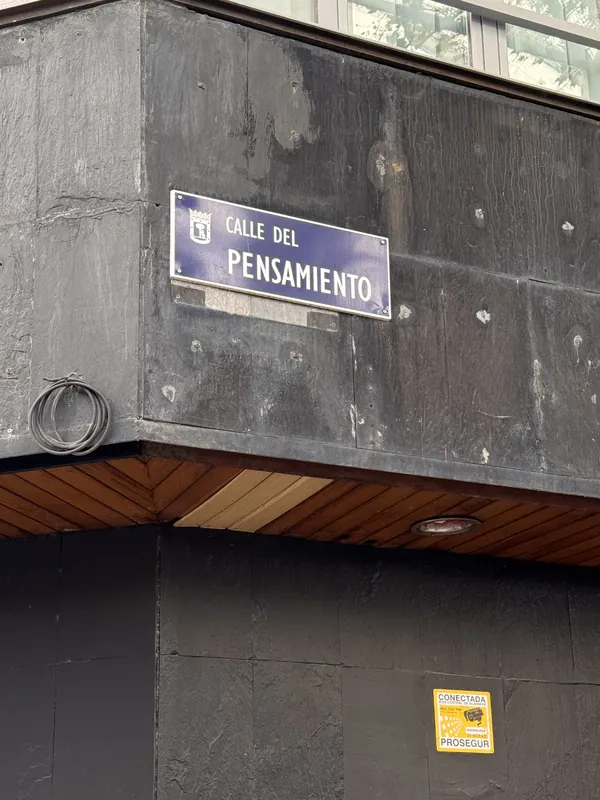
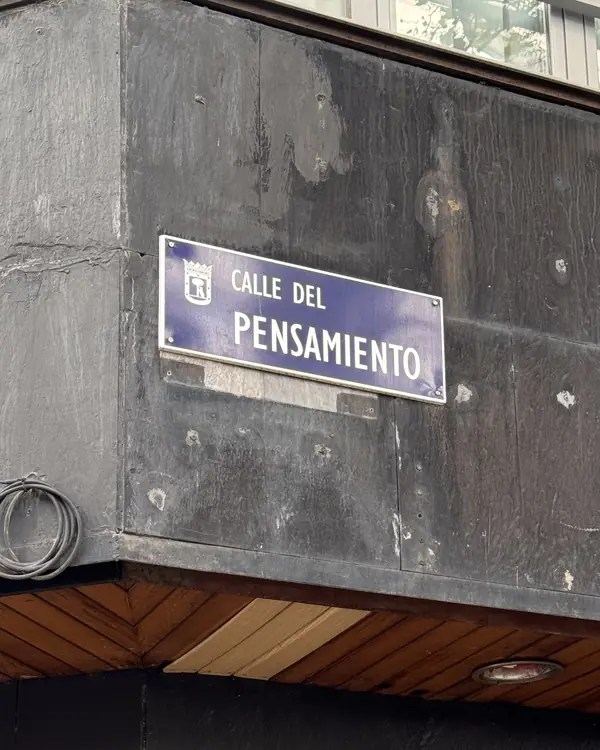
Callejero Emocional v6: correcciones de Pam (trazo único 01→07, foto Pensamiento, tamaños móvil)
- Mapa regenerado con las coordenadas y el trazado de build_mapa.py (boceto v5 de Pam):
  un solo trazo abierto 01→02→03→Esperanza→04→05→06→07 que acaba en la 07 y se dibuja al
  hacer scroll (cada parada aparece cuando llega la línea); sin JS o con reduced-motion, ya dibujado
- Mapa propio de móvil del boceto; calles 26 u y números 20 u del SVG → ≥16,1 px y ≥12,4 px
  reales a 360 px (17,7 / 13,6 px a 390). Leyenda «08 · pronto» sin punto, pies de polaroid y
  botón «Mira dónde dejé una» a 16 px en móvil
- Etiqueta «Constancia» junto a su punto 01
- Foto Pensamiento: nuevo recorte 4:5 de IMG_8288.HEIC por encima de la pegatina de Prosegur
  (no se ve ni la pegatina ni el teléfono); polaroids en 4:5 como el boceto
- Tipografía OCR B Libre sin cambios

diff --git a/index.html b/index.html
@@ -131,37 +131,39 @@ button{cursor:pointer;border:none;background:none;padding:0}
 .callejero-mapas{grid-area:mapa;position:relative;margin:0 -6px -8px 0}
 .mapa{display:block;width:100%;height:auto;overflow:visible}
 .mapa--movil{display:none}
-.mapa text{font-family:'OCR B Libre','Courier New',monospace;fill:var(--kirco-paper)}
-.mapa .mapa-calle{font-size:12.5px;letter-spacing:.06em}
-.mapa .mapa-fondo-txt{font-size:7.5px;letter-spacing:.28em;fill:rgba(247,241,227,.38)}
-.mapa .mapa-pronto{font-size:13px;letter-spacing:.06em}
-.mapa .mapa-num{font-size:8.5px;text-anchor:middle;dominant-baseline:central;letter-spacing:0}
-.mapa .mapa-num--verde{fill:#1C2659}
-.mapa-trazo{fill:none;stroke:var(--kirco-paper);stroke-width:1.15;stroke-linecap:round;stroke-linejoin:round;opacity:.9}
-.mapa-fondo{fill:none;stroke:rgba(247,241,227,.2);stroke-width:.8;stroke-dasharray:2 3}
-.mapa-retiro{fill:rgba(247,241,227,.05);stroke:rgba(247,241,227,.16);stroke-width:.8}
-.mapa-nodo{fill:#1C2659;stroke:var(--kirco-paper);stroke-width:1.1}
-.mapa-nodo--verde{fill:var(--kirco-green);stroke:var(--kirco-green)}
-.mapa-punto{fill:var(--kirco-paper)}
-/* Trazado al hacer scroll: solo si el JS lo prepara (sin JS o con reduced-motion se ve ya dibujado) */
-.callejero-mapas.is-preparado .mapa-trazo{stroke-dasharray:1;stroke-dashoffset:1;transition:stroke-dashoffset 2.6s cubic-bezier(.45,0,.2,1)}
-.callejero-mapas.is-preparado .mapa-trazo--2{transition-delay:.9s;transition-duration:1.4s}
-.callejero-mapas.is-preparado .mapa-trazo--3{transition-delay:1.3s;transition-duration:1.1s}
-.callejero-mapas.is-preparado .mapa-aparece{opacity:0;transition:opacity .6s ease-out}
-.callejero-mapas.is-preparado .mapa-fondo,.callejero-mapas.is-preparado .mapa-retiro,.callejero-mapas.is-preparado .mapa-fondo-txt{opacity:0;transition:opacity 1s ease-out}
+.mapa-leyenda{position:absolute;right:4px;top:-2px;margin:0;z-index:1;font-family:'OCR B Libre','Courier New',monospace;font-size:15px;line-height:1.2;color:rgba(247,241,227,.8)}
+.mapa text{font-family:'OCR B Libre','Courier New',monospace}
+.mapa-fondo path{fill:none;stroke:rgba(247,241,227,.16);stroke-width:1;stroke-linecap:round}
+.mapa-fondo .mapa-rio{stroke:rgba(161,214,107,.38);stroke-width:1.4}
+.mapa-fondo .mapa-retiro{fill:rgba(161,214,107,.07);stroke:rgba(161,214,107,.32)}
+.mapa-fondo-txt text{font-size:11px;letter-spacing:.22em;fill:rgba(247,241,227,.34)}
+.mapa-trazo{fill:none;stroke:var(--kirco-paper);stroke-width:1.6;stroke-linecap:round;stroke-linejoin:round;opacity:.9}
+.mapa-parada circle{fill:#1C2659;stroke:var(--kirco-paper);stroke-width:1.4}
+.mapa-parada--foto circle{fill:var(--kirco-green);stroke:var(--kirco-green)}
+.mapa-parada--mini circle{fill:var(--kirco-paper);stroke:none}
+.mapa .mapa-num{font-size:13px;fill:var(--kirco-paper);text-anchor:middle;dominant-baseline:central}
+.mapa .mapa-parada--foto .mapa-num{fill:#1C2659}
+.mapa .mapa-calle{font-size:15px;letter-spacing:.04em;fill:var(--kirco-paper);paint-order:stroke;stroke:rgba(28,38,89,.85);stroke-width:4px;stroke-linejoin:round}
+.mapa .mapa-calle--peq{fill:rgba(247,241,227,.72)}
+/* Trazado al hacer scroll: un solo trazo abierto 01→07 (linear, para que cada parada salga cuando llega la línea).
+   Solo si el JS lo prepara: sin JS o con reduced-motion se ve ya dibujado. */
+.callejero-mapas.is-preparado .mapa-trazo{stroke-dasharray:1;stroke-dashoffset:1;transition:stroke-dashoffset 3.6s linear}
+.callejero-mapas.is-preparado .mapa-aparece,.callejero-mapas.is-preparado .mapa-aparece-fin{opacity:0;transition:opacity .5s ease-out}
+.callejero-mapas.is-preparado .mapa-fondo,.callejero-mapas.is-preparado .mapa-fondo-txt{opacity:0;transition:opacity 1s ease-out}
 .callejero-mapas.is-dibujado .mapa-trazo{stroke-dashoffset:0}
-.callejero-mapas.is-dibujado .mapa-aparece,.callejero-mapas.is-dibujado .mapa-fondo,.callejero-mapas.is-dibujado .mapa-retiro,.callejero-mapas.is-dibujado .mapa-fondo-txt{opacity:1}
+.callejero-mapas.is-dibujado .mapa-aparece,.callejero-mapas.is-dibujado .mapa-aparece-fin,.callejero-mapas.is-dibujado .mapa-fondo,.callejero-mapas.is-dibujado .mapa-fondo-txt{opacity:1}
 .callejero-mapas.is-dibujado .mapa-aparece{transition-delay:calc(var(--d,0) * 1ms)}
+.callejero-mapas.is-dibujado .mapa-aparece-fin{transition-delay:3.7s}
 @media (prefers-reduced-motion:reduce){
   .callejero-mapas .mapa-trazo{stroke-dasharray:none !important;stroke-dashoffset:0 !important;transition:none !important}
-  .callejero-mapas .mapa-aparece,.callejero-mapas .mapa-fondo,.callejero-mapas .mapa-retiro,.callejero-mapas .mapa-fondo-txt{opacity:1 !important;transition:none !important}
+  .callejero-mapas .mapa-aparece,.callejero-mapas .mapa-aparece-fin,.callejero-mapas .mapa-fondo,.callejero-mapas .mapa-fondo-txt{opacity:1 !important;transition:none !important}
 }
 .callejero-polas{position:relative;display:flex;justify-content:center;gap:clamp(10px,1.6vw,22px);margin:-2% 0 0;padding:0 2%;z-index:2}
 .callejero-pola{position:relative;margin:0;flex:0 1 31%;max-width:150px;background:#fff;border-radius:4px;padding:6px 6px 0;box-shadow:0 8px 20px rgba(8,12,36,.45)}
 .callejero-pola:nth-child(1){transform:rotate(-3deg)}
 .callejero-pola:nth-child(2){transform:rotate(2deg) translateY(-6px)}
 .callejero-pola:nth-child(3){transform:rotate(-1.5deg) translateY(4px)}
-.callejero-pola img{display:block;width:100%;height:auto;aspect-ratio:3/4;object-fit:cover;border-radius:1px}
+.callejero-pola img{display:block;width:100%;height:auto;aspect-ratio:4/5;object-fit:cover;border-radius:1px}
 .callejero-pola figcaption{font-family:var(--font-hand);font-size:clamp(14px,1.2vw,17px);color:var(--kirco-ink);text-align:center;line-height:1;padding:9px 2px 11px}
 .callejero-pola-num{position:absolute;top:-9px;left:-9px;width:24px;height:24px;border-radius:50%;background:var(--kirco-green);color:#1C2659;font-family:'OCR B Libre','Courier New',monospace;font-size:10.5px;line-height:24px;text-align:center;box-shadow:0 2px 6px rgba(8,12,36,.35)}
 /* Sello flotante: fuera mientras se ve Callejero (las polaroids quedan debajo de él en móvil) */
@@ -179,15 +181,22 @@ button{cursor:pointer;border:none;background:none;padding:0}
     background-image:image-set(url('assets/callejero-textura-movil.avif') type('image/avif'),url('assets/callejero-textura-movil.webp') type('image/webp'))}
   .callejero-titulo{font-size:clamp(30px,8.4vw,36px);margin-bottom:16px}
   .callejero-parrafo{font-size:19px}
+  #callejero{padding-left:14px !important;padding-right:14px !important}
+  .callejero-card{padding:30px 18px 28px}
   .callejero-mapas{margin:22px 0 0}
+  .mapa-leyenda{position:static;text-align:right;font-size:16px;margin:0 0 4px}
   .mapa--escritorio{display:none}
-  .mapa--movil{display:block}
-  .callejero-polas{margin-top:2%;gap:8px;padding:0}
+  .mapa--movil{display:block;width:calc(100% + 12px);margin:0 -6px}
+  /* Unidades del SVG móvil (ancho 496): a 360 px el mapa mide 308 px (×0,62) → calles 26 u ≈ 16,1 px, números 20 u ≈ 12,4 px */
+  .mapa--movil .mapa-calle{font-size:26px;letter-spacing:0;stroke-width:5px}
+  .mapa--movil .mapa-num{font-size:20px}
+  .mapa--movil .mapa-fondo-txt text{font-size:15px}
+  .callejero-polas{margin-top:2%;gap:10px;padding:0 2px}
   .callejero-pola{flex:1 1 0;padding:4px 4px 0}
-  .callejero-pola figcaption{font-size:13px;padding:7px 0 9px}
-  .callejero-pola-num{width:22px;height:22px;line-height:22px;font-size:9.5px;top:-8px;left:-7px}
+  .callejero-pola figcaption{font-size:16px;padding:6px 0 8px}
+  .callejero-pola-num{width:26px;height:26px;line-height:26px;font-size:12px;top:-9px;left:-7px}
   .callejero-cta{margin-top:26px}
-  .callejero-btn{display:flex;justify-content:center;width:100%;font-size:14px;padding:1.05em 1em;letter-spacing:.14em}
+  .callejero-btn{display:flex;justify-content:center;width:100%;font-size:16px;padding:1em .8em;letter-spacing:.08em}
   .callejero-btn svg{display:none}
 }
 }
@@ -429,58 +438,39 @@ button{cursor:pointer;border:none;background:none;padding:0}
       <p class="callejero-parrafo">Es una serie original de by_kirco. Elegí ocho calles de Madrid con nombre de emoción, como Constancia, Refugio o Esperanza, y en cada una dejé una carta escrita a mano. Si encuentras una, es para ti.</p>
     </div>
     <div class="callejero-mapas" data-mapa>
-    <svg class="mapa mapa--escritorio" viewBox="0 0 400 300" role="img" aria-labelledby="mapa-esc-tit">
-      <title id="mapa-esc-tit">Mapa dibujado del Callejero Emocional: Constancia (01), Pensamiento (02), Desengaño (03), Refugio (04), Dos Amigos (05), Virtudes (06), Indulgencia (07), Esperanza y la 08, que llegará pronto.</title>
-      <path class="mapa-fondo" d="M14 8 C 6 70 18 120 10 180 C 4 230 22 262 40 296"/>
-      <text class="mapa-fondo-txt" transform="translate(9 262) rotate(-74)">MANZANARES</text>
-      <path class="mapa-fondo" d="M236 6 L 232 128"/>
-      <text class="mapa-fondo-txt" transform="translate(242 12) rotate(90)">CASTELLANA</text>
-      <path class="mapa-fondo" d="M42 206 L 214 204"/>
-      <text class="mapa-fondo-txt" x="82" y="200">GRAN VÍA</text>
-      <path class="mapa-retiro" d="M246 268 C 248 250 282 244 300 252 C 318 260 316 282 296 288 C 272 294 244 288 246 268 Z"/>
-      <text class="mapa-fondo-txt" x="301" y="262">RETIRO</text>
-      <path class="mapa-trazo mapa-trazo--1" pathLength="1" d="M160 274 C 136 270 120 248 121 222 C 122 200 86 194 55 175 C 30 120 104 62 167 73 C 196 26 280 20 287 97 C 296 150 334 186 322 222 C 306 262 226 280 160 274 Z"/>
-      <path class="mapa-trazo mapa-trazo--2" pathLength="1" d="M55 175 C 104 158 150 156 190 160 C 222 163 240 162 255 166 C 286 176 306 200 322 222"/>
-      <path class="mapa-trazo mapa-trazo--3" pathLength="1" d="M167 73 C 206 96 238 132 255 166"/>
-      <circle class="mapa-punto mapa-aparece" style="--d:2300" cx="160" cy="274" r="3.2"/>
-      <text class="mapa-pronto mapa-aparece" style="--d:2400" x="390" y="18" text-anchor="end">08 · pronto</text>
-      <g class="mapa-aparece" style="--d:1500"><circle class="mapa-nodo" cx="255" cy="166" r="8.5"/><text class="mapa-num" x="255" y="166.5">01</text></g><text class="mapa-calle mapa-aparece" style="--d:1550" x="208" y="197" text-anchor="start">Constancia</text>
-      <g class="mapa-aparece" style="--d:600"><circle class="mapa-nodo mapa-nodo--verde" cx="167" cy="73" r="8.5"/><text class="mapa-num mapa-num--verde" x="167" y="73.5">02</text></g><text class="mapa-calle mapa-aparece" style="--d:650" x="154" y="77" text-anchor="end">Pensamiento</text>
-      <g class="mapa-aparece" style="--d:1900"><circle class="mapa-nodo" cx="121" cy="222" r="8.5"/><text class="mapa-num" x="121" y="222.5">03</text></g><text class="mapa-calle mapa-aparece" style="--d:1950" x="108" y="226" text-anchor="end">Desengaño</text>
-      <g class="mapa-aparece" style="--d:1000"><circle class="mapa-nodo mapa-nodo--verde" cx="287" cy="97" r="8.5"/><text class="mapa-num mapa-num--verde" x="287" y="97.5">04</text></g><text class="mapa-calle mapa-aparece" style="--d:1050" x="256" y="80" text-anchor="start">Refugio</text>
-      <g class="mapa-aparece" style="--d:300"><circle class="mapa-nodo mapa-nodo--verde" cx="55" cy="175" r="8.5"/><text class="mapa-num mapa-num--verde" x="55" y="175.5">05</text></g><text class="mapa-calle mapa-aparece" style="--d:350" x="36" y="157" text-anchor="start">Dos Amigos</text>
-      <g class="mapa-aparece" style="--d:1300"><circle class="mapa-nodo" cx="190" cy="160" r="8.5"/><text class="mapa-num" x="190" y="160.5">06</text></g><text class="mapa-calle mapa-aparece" style="--d:1350" x="152" y="143" text-anchor="start">Virtudes</text>
-      <g class="mapa-aparece" style="--d:1700"><circle class="mapa-nodo" cx="322" cy="222" r="8.5"/><text class="mapa-num" x="322" y="222.5">07</text></g><text class="mapa-calle mapa-aparece" style="--d:1750" x="232" y="248" text-anchor="start">Indulgencia</text>
-      <text class="mapa-calle mapa-aparece" style="--d:2300" x="170" y="278" text-anchor="start">Esperanza</text>
+    <p class="mapa-leyenda mapa-aparece-fin">08 · pronto</p>
+    <svg class="mapa mapa--escritorio" viewBox="-8 -4 496 478" role="img" aria-labelledby="mapa-esc-tit">
+      <title id="mapa-esc-tit">Mapa dibujado del Callejero Emocional: un recorrido que une las cartas en orden, Constancia (01), Pensamiento (02), Desengaño (03), Esperanza, Refugio (04), Dos Amigos (05), Virtudes (06) e Indulgencia (07). La 08 llegará pronto.</title>
+      <g class="mapa-fondo" transform="scale(1.000 1.000)"><path class="mapa-rio" d="M6 60 C 0 180, 6 300, 40 380 S 150 452, 250 470"/><path class="mapa-via" d="M292 470 C 292 330, 288 180, 294 0"/><path class="mapa-via" d="M70 280 C 140 276, 220 270, 292 276"/><path class="mapa-retiro" d="M330 396 C 352 380, 396 384, 404 410 S 384 452, 350 448 S 316 412, 330 396Z"/></g>
+      <g class="mapa-fondo-txt"><text x="436" y="396" text-anchor="middle">RETIRO</text><text x="300" y="20" transform="rotate(90 300 20)">CASTELLANA</text><text x="16" y="330" transform="rotate(-72 16 330)" text-anchor="middle">MANZANARES</text><text x="88" y="270">GRAN VÍA</text></g>
+      <path class="mapa-trazo" pathLength="1" d="M338.0 222.0 C296.7 178.7 244.9 84.7 214.0 92.0 C180.0 100.0 141.3 250.2 150.0 300.0 C155.6 332.1 179.2 364.7 204.0 372.0 C232.8 380.5 289.4 360.1 318.0 330.0 C356.1 289.9 394.3 175.0 382.0 124.0 C373.0 86.4 335.2 56.8 300.0 40.0 C260.1 21.0 192.4 12.5 150.0 26.0 C110.8 38.5 67.1 75.0 52.0 110.0 C37.3 144.0 34.4 211.6 58.0 232.0 C87.3 257.4 185.1 203.5 246.0 214.0 C309.2 224.9 368.7 271.3 430.0 300.0"/>
+      <g class="mapa-parada mapa-parada--mini mapa-aparece" style="--d:1015"><circle cx="204" cy="372" r="4.6"/><text class="mapa-calle mapa-calle--peq" x="218" y="382">Esperanza</text></g>
+      <g class="mapa-parada mapa-aparece" data-n="01" style="--d:0"><circle cx="338" cy="222" r="14"/><text class="mapa-num" x="338" y="222">01</text><text class="mapa-calle" x="316" y="258" text-anchor="end">Constancia</text></g>
+      <g class="mapa-parada mapa-parada--foto mapa-aparece" data-n="02" style="--d:371"><circle cx="214" cy="92" r="14"/><text class="mapa-num" x="214" y="92">02</text><text class="mapa-calle" x="192" y="97" text-anchor="end">Pensamiento</text></g>
+      <g class="mapa-parada mapa-aparece" data-n="03" style="--d:825"><circle cx="150" cy="300" r="14"/><text class="mapa-num" x="150" y="300">03</text><text class="mapa-calle" x="128" y="305" text-anchor="end">Desengaño</text></g>
+      <g class="mapa-parada mapa-parada--foto mapa-aparece" data-n="04" style="--d:1717"><circle cx="382" cy="124" r="14"/><text class="mapa-num" x="382" y="124">04</text><text class="mapa-calle" x="382" y="100" text-anchor="middle">Refugio</text></g>
+      <g class="mapa-parada mapa-parada--foto mapa-aparece" data-n="05" style="--d:2798"><circle cx="58" cy="232" r="14"/><text class="mapa-num" x="58" y="232">05</text><text class="mapa-calle" x="48" y="208" text-anchor="start">Dos Amigos</text></g>
+      <g class="mapa-parada mapa-aparece" data-n="06" style="--d:3187"><circle cx="246" cy="214" r="14"/><text class="mapa-num" x="246" y="214">06</text><text class="mapa-calle" x="246" y="190" text-anchor="middle">Virtudes</text></g>
+      <g class="mapa-parada mapa-aparece" data-n="07" style="--d:3600"><circle cx="430" cy="300" r="14"/><text class="mapa-num" x="430" y="300">07</text><text class="mapa-calle" x="448" y="338" text-anchor="end">Indulgencia</text></g>
     </svg>
-    <svg class="mapa mapa--movil" viewBox="0 0 300 350" role="img" aria-labelledby="mapa-mov-tit">
-      <title id="mapa-mov-tit">Mapa dibujado del Callejero Emocional: Constancia (01), Pensamiento (02), Desengaño (03), Refugio (04), Dos Amigos (05), Virtudes (06), Indulgencia (07), Esperanza y la 08, que llegará pronto.</title>
-      <path class="mapa-fondo" d="M16 60 C 8 140 20 200 12 262 C 8 300 20 326 30 346"/>
-      <text class="mapa-fondo-txt" transform="translate(10 330) rotate(-80)">MANZANARES</text>
-      <path class="mapa-fondo" d="M180 44 L 176 150"/>
-      <text class="mapa-fondo-txt" transform="translate(186 50) rotate(90)">CASTELLANA</text>
-      <path class="mapa-fondo" d="M30 232 L 160 230"/>
-      <text class="mapa-fondo-txt" x="62" y="226">GRAN VÍA</text>
-      <path class="mapa-retiro" d="M178 330 C 180 314 210 308 228 314 C 246 320 244 340 226 345 C 204 350 176 346 178 330 Z"/>
-      <text class="mapa-fondo-txt" x="190" y="341">RETIRO</text>
-      <path class="mapa-trazo mapa-trazo--1" pathLength="1" d="M146 311 C 128 306 124 282 128 261 C 130 236 70 226 41 205 C 18 150 80 70 158 73 C 196 40 248 64 239 112 C 232 160 280 210 261 247 C 246 284 200 314 146 311 Z"/>
-      <path class="mapa-trazo mapa-trazo--2" pathLength="1" d="M41 205 C 82 184 120 168 157 165 C 182 164 198 176 211 188 C 232 206 250 228 261 247"/>
-      <path class="mapa-trazo mapa-trazo--3" pathLength="1" d="M158 73 C 182 108 200 150 211 188"/>
-      <circle class="mapa-punto mapa-aparece" style="--d:2300" cx="146" cy="311" r="3.2"/>
-      <text class="mapa-pronto mapa-aparece" style="--d:2400" x="290" y="14" text-anchor="end">08 · pronto</text>
-      <g class="mapa-aparece" style="--d:1500"><circle class="mapa-nodo" cx="211" cy="188" r="8.5"/><text class="mapa-num" x="211" y="188.5">01</text></g><text class="mapa-calle mapa-aparece" style="--d:1550" x="160" y="217" text-anchor="start">Constancia</text>
-      <g class="mapa-aparece" style="--d:600"><circle class="mapa-nodo mapa-nodo--verde" cx="158" cy="73" r="8.5"/><text class="mapa-num mapa-num--verde" x="158" y="73.5">02</text></g><text class="mapa-calle mapa-aparece" style="--d:650" x="145" y="77" text-anchor="end">Pensamiento</text>
-      <g class="mapa-aparece" style="--d:1900"><circle class="mapa-nodo" cx="128" cy="261" r="8.5"/><text class="mapa-num" x="128" y="261.5">03</text></g><text class="mapa-calle mapa-aparece" style="--d:1950" x="115" y="265" text-anchor="end">Desengaño</text>
-      <g class="mapa-aparece" style="--d:1000"><circle class="mapa-nodo mapa-nodo--verde" cx="239" cy="112" r="8.5"/><text class="mapa-num mapa-num--verde" x="239" y="112.5">04</text></g><text class="mapa-calle mapa-aparece" style="--d:1050" x="198" y="94" text-anchor="start">Refugio</text>
-      <g class="mapa-aparece" style="--d:300"><circle class="mapa-nodo mapa-nodo--verde" cx="41" cy="205" r="8.5"/><text class="mapa-num mapa-num--verde" x="41" y="205.5">05</text></g><text class="mapa-calle mapa-aparece" style="--d:350" x="28" y="187" text-anchor="start">Dos Amigos</text>
-      <g class="mapa-aparece" style="--d:1300"><circle class="mapa-nodo" cx="157" cy="165" r="8.5"/><text class="mapa-num" x="157" y="165.5">06</text></g><text class="mapa-calle mapa-aparece" style="--d:1350" x="112" y="146" text-anchor="start">Virtudes</text>
-      <g class="mapa-aparece" style="--d:1700"><circle class="mapa-nodo" cx="261" cy="247" r="8.5"/><text class="mapa-num" x="261" y="247.5">07</text></g><text class="mapa-calle mapa-aparece" style="--d:1750" x="152" y="275" text-anchor="start">Indulgencia</text>
-      <text class="mapa-calle mapa-aparece" style="--d:2300" x="156" y="315" text-anchor="start">Esperanza</text>
+    <svg class="mapa mapa--movil" viewBox="-8 -4 496 648" role="img" aria-labelledby="mapa-mov-tit">
+      <title id="mapa-mov-tit">Mapa dibujado del Callejero Emocional: un recorrido que une las cartas en orden, Constancia (01), Pensamiento (02), Desengaño (03), Esperanza, Refugio (04), Dos Amigos (05), Virtudes (06) e Indulgencia (07). La 08 llegará pronto.</title>
+      <g class="mapa-fondo" transform="scale(1.000 1.362)"><path class="mapa-rio" d="M6 60 C 0 180, 6 300, 40 380 S 150 452, 250 470"/><path class="mapa-via" d="M292 470 C 292 330, 288 180, 294 0"/><path class="mapa-via" d="M70 280 C 140 276, 220 270, 292 276"/><path class="mapa-retiro" d="M330 396 C 352 380, 396 384, 404 410 S 384 452, 350 448 S 316 412, 330 396Z"/></g>
+      <g class="mapa-fondo-txt"><text x="367" y="577" text-anchor="middle">RETIRO</text><text x="300" y="27" transform="rotate(90 300 27)">CASTELLANA</text><text x="16" y="449" transform="rotate(-72 16 449)" text-anchor="middle">MANZANARES</text><text x="88" y="368">GRAN VÍA</text></g>
+      <path class="mapa-trazo" pathLength="1" d="M360.0 300.0 C327.3 230.0 286.4 86.5 262.0 90.0 C232.3 94.3 203.5 353.5 210.0 430.0 C213.4 470.2 217.4 500.1 240.0 520.0 C267.7 544.5 348.7 571.7 380.0 548.0 C431.8 508.8 433.4 249.8 410.0 160.0 C395.7 105.3 368.3 63.0 330.0 40.0 C289.6 15.7 217.3 7.5 170.0 24.0 C119.8 41.5 60.0 98.9 40.0 150.0 C20.1 201.0 18.3 308.8 50.0 330.0 C85.4 353.7 196.3 244.9 262.0 256.0 C329.9 267.5 387.3 355.3 450.0 405.0"/>
+      <g class="mapa-parada mapa-parada--mini mapa-aparece" style="--d:1027"><circle cx="240" cy="520" r="5.9"/><text class="mapa-calle mapa-calle--peq" x="258" y="534">Esperanza</text></g>
+      <g class="mapa-parada mapa-aparece" data-n="01" style="--d:0"><circle cx="360" cy="300" r="18"/><text class="mapa-num" x="360" y="300">01</text><text class="mapa-calle" x="360" y="346" text-anchor="middle">Constancia</text></g>
+      <g class="mapa-parada mapa-parada--foto mapa-aparece" data-n="02" style="--d:354"><circle cx="262" cy="90" r="18"/><text class="mapa-num" x="262" y="90">02</text><text class="mapa-calle" x="238" y="98" text-anchor="end">Pensamiento</text></g>
+      <g class="mapa-parada mapa-aparece" data-n="03" style="--d:880"><circle cx="210" cy="430" r="18"/><text class="mapa-num" x="210" y="430">03</text><text class="mapa-calle" x="186" y="438" text-anchor="end">Desengaño</text></g>
+      <g class="mapa-parada mapa-parada--foto mapa-aparece" data-n="04" style="--d:1852"><circle cx="410" cy="160" r="18"/><text class="mapa-num" x="410" y="160">04</text><text class="mapa-calle" x="410" y="128" text-anchor="middle">Refugio</text></g>
+      <g class="mapa-parada mapa-parada--foto mapa-aparece" data-n="05" style="--d:2886"><circle cx="50" cy="330" r="18"/><text class="mapa-num" x="50" y="330">05</text><text class="mapa-calle" x="26" y="298" text-anchor="start">Dos Amigos</text></g>
+      <g class="mapa-parada mapa-aparece" data-n="06" style="--d:3233"><circle cx="262" cy="256" r="18"/><text class="mapa-num" x="262" y="256">06</text><text class="mapa-calle" x="262" y="224" text-anchor="middle">Virtudes</text></g>
+      <g class="mapa-parada mapa-aparece" data-n="07" style="--d:3600"><circle cx="450" cy="405" r="18"/><text class="mapa-num" x="450" y="405">07</text><text class="mapa-calle" x="478" y="455" text-anchor="end">Indulgencia</text></g>
     </svg>
       <div class="callejero-polas">
         <figure class="callejero-pola">
           <span class="callejero-pola-num" aria-hidden="true">02</span>
-          <img src="assets/callejero-pensamiento-600.webp" srcset="assets/callejero-pensamiento-600.webp 600w, assets/callejero-pensamiento-900.webp 900w" sizes="(max-width: 759px) 30vw, 150px" alt="Placa de la calle del Pensamiento en la esquina de un edificio de Madrid" loading="lazy" decoding="async" width="600" height="800">
+          <img src="assets/callejero-pensamiento-600.webp" srcset="assets/callejero-pensamiento-600.webp 600w, assets/callejero-pensamiento-900.webp 900w" sizes="(max-width: 759px) 30vw, 150px" alt="Placa de la calle del Pensamiento en la esquina de un edificio de Madrid" loading="lazy" decoding="async" width="600" height="750">
           <figcaption>Pensamiento</figcaption>
         </figure>
         <figure class="callejero-pola">
